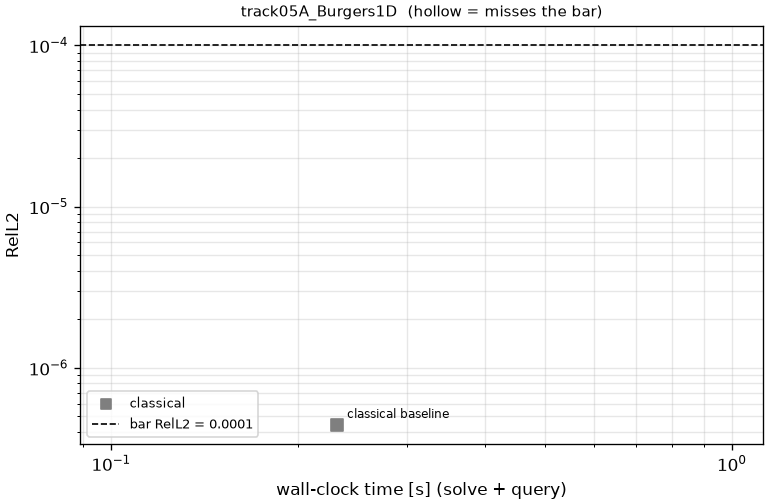
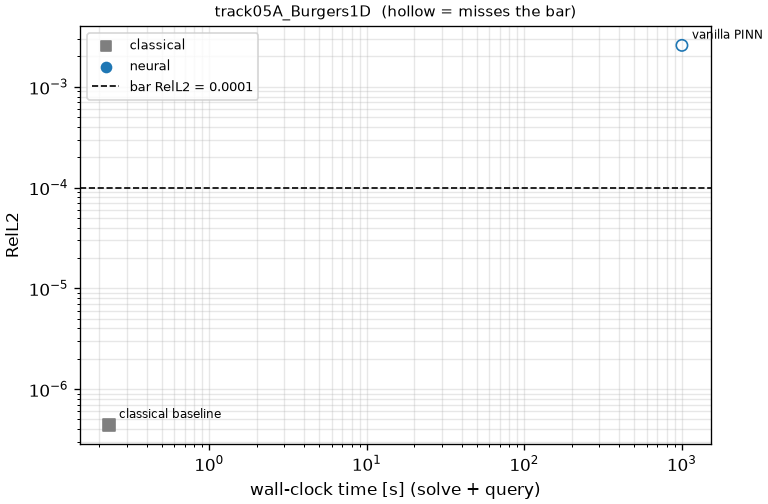
Vanilla PINN (submission_PR0001) results on all active tracks; tracker plots

diff --git a/PLAN.md b/PLAN.md
@@ -16,19 +16,22 @@ look the way they do, and what comes next. Research reasoning is in IDEAS.md.
 
 | track | reference (self-check) | record #0 | time | RelL2 | L∞ | vanilla PINN, 1000 s (RelL2) |
 |---|---|---|---|---|---|---|
-| 01 | Radau IIA rtol 1e-12 (rtol 1e-10: 7e-12) | LSODA rtol 1e-8 (CPU) | 37 ms | 8.7e-07 | 5.4e-05 | running |
-| 02 | exact sine series, K=512 (K=256: 0) | sine modes N=256 | 2.9 ms | 8.0e-16 | 7.8e-16 | running |
+| 01 | Radau IIA rtol 1e-12 (rtol 1e-10: 7e-12) | LSODA rtol 1e-8 (CPU) | 37 ms | 8.7e-07 | 5.4e-05 | 1.0e+00 |
+| 02 | exact sine series, K=512 (K=256: 0) | sine modes N=256 | 2.9 ms | 8.0e-16 | 7.8e-16 | 8.5e-01 |
 | 03 | FV 3840²/5376², Richardson p=1.34 (1e-7) | FV 3328² + MG-PCG | 8.36 s | 3.8e-05 | 1.6e-04 | 9.9e-01 |
 | 04A | *on hold* | | | | | |
-| 04B | closed form | Chebyshev N=96 | 1.16 s | 2.9e-05 | 3.3e-05 | running |
-| 05A | Fourier N=8192 (4096: 2e-8) | Fourier N=1024 | 0.23 s | 4.4e-07 | 1.1e-04 | running |
+| 04B | closed form | Chebyshev N=96 | 1.16 s | 2.9e-05 | 3.3e-05 | 9.2e-01 |
+| 05A | Fourier N=8192 (4096: 2e-8) | Fourier N=1024 | 0.23 s | 4.4e-07 | 1.1e-04 | 2.6e-03 |
 | 05B | Fourier 2048², dt=2.5e-4 (1024²: 6.9e-6) | Fourier 1024², dt=1e-3 | 7.83 s | 9.7e-06 | 2.6e-04 | 2.5e-01 |
-| 05C | Fourier N=1024, 64 steps/snapshot (32: 4.8e-9) | Fourier N=256, 16 steps | 6.24 s | 1.0e-07 | 4.1e-05 | running |
+| 05C | Fourier N=1024, 64 steps/snapshot (32: 4.8e-9) | Fourier N=256, 16 steps | 6.24 s | 1.0e-07 | 4.1e-05 | 1.0e+00 |
 | 06 | closed form | PN–PN-2 N=16, Newton | 0.19 s | 1.4e-07 | 4.7e-07 | 7.0e-04 |
 | 07 | *TODO* (see §4) | | | | | |
-| 08 | closed form | Fourier vorticity N=32 | 0.13 s | 1.9e-15 | 7.7e-15 | running |
+| 08 | closed form | Fourier vorticity N=32 | 0.13 s | 1.9e-15 | 7.7e-15 | 8.0e-01 |
 | 09 | *TODO* | | | | | |
 | 10 | *TODO* | | | | | |
+
+No vanilla PINN reaches the bar on any track: the best are 06 (7.0e-4) and 05A (2.6e-3); 01, 02, 03, 04B,
+05C and 08 stay at RelL2 ≈ 0.8–1 (no usable solution).
 
 ## 2. Harness notes
 

diff --git a/tracks/track01_VanDerPol/README.md b/tracks/track01_VanDerPol/README.md
@@ -29,6 +29,7 @@ Current record: **0.03922 s** (record #0: classical baseline, maintainers, 2026-
 
 | date | author | name | kind | time [s] | RelL2 | L∞ | passes | hardware |
 |---|---|---|---|---|---|---|---|---|
+| 2026-10-30 | maintainers | vanilla PINN | neural | 1001 | 1.02e+00 | 3.29e+00 | no | NVIDIA GeForce RTX 2080 Ti |
 | 2026-10-30 | maintainers | record #0: classical baseline | classical | 0.03922 | 8.65e-07 | 5.37e-05 | yes | CPU (Intel(R) Core(TM) i9-7920X CPU @ 2.90GHz) |
 
 ![accuracy_vs_time](figures/accuracy_vs_time.png)

diff --git a/tracks/track02_DampedWave/README.md b/tracks/track02_DampedWave/README.md
@@ -31,6 +31,7 @@ Current record: **0.002869 s** (record #0: classical baseline, maintainers, 2026
 
 | date | author | name | kind | time [s] | RelL2 | L∞ | passes | hardware |
 |---|---|---|---|---|---|---|---|---|
+| 2026-10-30 | maintainers | vanilla PINN | neural | 1001 | 8.49e-01 | 7.45e-01 | no | NVIDIA GeForce RTX 2080 Ti |
 | 2026-10-30 | maintainers | record #0: classical baseline | classical | 0.002869 | 8.03e-16 | 7.77e-16 | yes | NVIDIA GeForce RTX 2080 Ti |
 
 ![accuracy_vs_time](figures/accuracy_vs_time.png)

diff --git a/tracks/track08_DecayingEddies/README.md b/tracks/track08_DecayingEddies/README.md
@@ -30,6 +30,7 @@ Current record: **0.1347 s** (record #0: classical baseline, maintainers, 2026-1
 
 | date | author | name | kind | time [s] | RelL2 | L∞ | passes | hardware |
 |---|---|---|---|---|---|---|---|---|
+| 2026-10-30 | maintainers | vanilla PINN | neural | 1001 | 8.00e-01 | 1.72e+00 | no | NVIDIA GeForce RTX 2080 Ti |
 | 2026-10-30 | maintainers | record #0: classical baseline | classical | 0.1347 | 1.92e-15 | 7.72e-15 | yes | NVIDIA GeForce RTX 2080 Ti |
 
 ![accuracy_vs_time](figures/accuracy_vs_time.png)

diff --git a/tracks/track04B_AdvectionDiffusion/README.md b/tracks/track04B_AdvectionDiffusion/README.md
@@ -31,6 +31,7 @@ Current record: **1.159 s** (record #0: classical baseline, maintainers, 2026-10
 
 | date | author | name | kind | time [s] | RelL2 | L∞ | passes | hardware |
 |---|---|---|---|---|---|---|---|---|
+| 2026-10-30 | maintainers | vanilla PINN | neural | 1001 | 9.19e-01 | 5.19e-01 | no | NVIDIA GeForce RTX 2080 Ti |
 | 2026-10-30 | maintainers | record #0: classical baseline | classical | 1.159 | 2.90e-05 | 3.34e-05 | yes | NVIDIA GeForce RTX 2080 Ti |
 
 ![accuracy_vs_time](figures/accuracy_vs_time.png)

diff --git a/tracks/track05A_Burgers1D/README.md b/tracks/track05A_Burgers1D/README.md
@@ -30,6 +30,7 @@ Current record: **0.231 s** (record #0: classical baseline, maintainers, 2026-10
 
 | date | author | name | kind | time [s] | RelL2 | L∞ | passes | hardware |
 |---|---|---|---|---|---|---|---|---|
+| 2026-10-30 | maintainers | vanilla PINN | neural | 1001 | 2.58e-03 | 4.41e-02 | no | NVIDIA GeForce RTX 2080 Ti |
 | 2026-10-30 | maintainers | record #0: classical baseline | classical | 0.231 | 4.43e-07 | 1.10e-04 | yes | NVIDIA GeForce RTX 2080 Ti |
 
 ![accuracy_vs_time](figures/accuracy_vs_time.png)

diff --git a/tracks/track05C_KuramotoSivashinsky/README.md b/tracks/track05C_KuramotoSivashinsky/README.md
@@ -29,6 +29,7 @@ Current record: **6.243 s** (record #0: classical baseline, maintainers, 2026-10
 
 | date | author | name | kind | time [s] | RelL2 | L∞ | passes | hardware |
 |---|---|---|---|---|---|---|---|---|
+| 2026-10-30 | maintainers | vanilla PINN | neural | 1001 | 9.99e-01 | 3.43e+01 | no | NVIDIA GeForce RTX 2080 Ti |
 | 2026-10-30 | maintainers | record #0: classical baseline | classical | 6.243 | 1.04e-07 | 4.06e-05 | yes | NVIDIA GeForce RTX 2080 Ti |
 
 ![accuracy_vs_time](figures/accuracy_vs_time.png)
